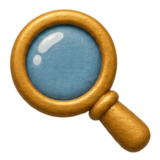
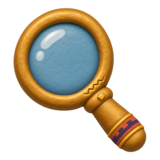
Lupa andina, ranuras horizontales y acciones opacas (v0.41) (#35)

Changed region(s): [[0.0625, 0.0312, 0.9688, 0.9375], [0.7812, 0.9375, 0.875, 0.9688]]

diff --git a/styles.css b/styles.css
@@ -1738,8 +1738,6 @@ body.playing .seat .seat-turn { display: none; }
   background: #172f36df; border: 1px solid #d5a262; border-radius: .5rem;
 }
 .action-token svg { width: 15px; height: 15px; }
-.action-token[data-state="waiting"] { opacity: .72; border-style: dashed; }
-.action-token[data-state="spent"] { opacity: .42; filter: grayscale(1); }
 body.playing .battle-dock .end-turn { width: 44px; min-width: 44px; padding: 0; display: grid; place-items: center; }
 body.playing .battle-dock .end-turn svg { width: 22px; height: 22px; }
 .card-menu { width: min(17rem,calc(100vw - 16px)); max-height: calc(100dvh - 16px); overflow-y: auto; }
@@ -2067,8 +2065,6 @@ body.playing .hud-toolbar .action-token {
 }
 .hud-toolbar .action-token svg { width: 19px; height: 19px; }
 .hud-toolbar .action-label { position: absolute; width: 1px; height: 1px; overflow: hidden; clip-path: inset(50%); }
-body.playing .hud-toolbar .action-token[data-state="waiting"] { border-style: dashed; opacity: .62; }
-body.playing .hud-toolbar .action-token[data-state="spent"] { opacity: .35; filter: grayscale(1); }
 body.playing .battle-dock { grid-template-columns: auto minmax(0,1fr) auto; }
 body.playing .battle-dock .hud-card { flex: 0 1 58px; }
 body.playing .controls > .saved-rescue-button:not([hidden]) { justify-self: start; margin: 0; }
@@ -2177,17 +2173,38 @@ body.playing .hud-toolbar .action-token {
   height: var(--hud-tile);
   border: 0;
   border-radius: .38rem;
-  background: var(--hud-blue) center / 100% 100% no-repeat;
+  background: var(--action-tile, var(--hud-blue)) center / 100% 100% no-repeat;
   box-shadow: none;
 }
 body.playing .hud-toolbar #move-status {
-  background: var(--hud-green) center / 100% 100% no-repeat;
+  --action-tile: var(--hud-green);
 }
 body.playing .hud-toolbar #attack-status {
-  background: var(--hud-red) center / 100% 100% no-repeat;
+  --action-tile: var(--hud-red);
 }
-body.playing .hud-toolbar .action-token[data-state="waiting"] { opacity: .73; }
-body.playing .hud-toolbar .action-token[data-state="spent"] { opacity: .43; }
+body.playing .hud-toolbar .action-token:not([data-state="ready"]) {
+  position: relative;
+  border: 2px solid #95999f;
+  border-radius: .57rem;
+  background: linear-gradient(150deg, #525961, #30363d);
+  box-shadow: inset 0 1px 2px #21262c;
+}
+body.playing .hud-toolbar .action-token[data-state="spent"] {
+  background: linear-gradient(150deg, #41464d, #262b32);
+}
+.hud-toolbar .action-token:not([data-state="ready"]) .hud-icon {
+  filter: grayscale(1) brightness(.84);
+}
+.hud-toolbar .action-token:not([data-state="ready"])::after {
+  content: '';
+  position: absolute;
+  inset: 12%;
+  border: 2px solid #ff5456;
+  border-radius: 50%;
+  background: linear-gradient(47deg, transparent calc(50% - 1.3px), #ff5456 50%, transparent calc(50% + 1.3px));
+  box-shadow: 0 0 0 1px #51282c;
+  pointer-events: none;
+}
 #coin-button {
   display: flex;
   align-items: center;
@@ -2235,9 +2252,20 @@ body.playing .battle-dock .end-turn {
   background: var(--hud-blue) center / 100% 100% no-repeat;
   box-shadow: none;
 }
-body.playing .battle-dock .hud-card { min-width: 0; flex: 1 1 0; }
+body.playing .battle-dock .hud-card {
+  min-width: 0;
+  flex: 1 1 0;
+  border: 1px solid transparent;
+  border-image: url('assets/ui/hud/ranura-carta.png') 26 fill / 12px / 0 stretch;
+  background: none;
+}
 body.playing .battle-dock .end-turn { min-width: 0; width: clamp(42px, 12vw, 67px); }
-body.playing .battle-dock .hud-card img { width: 74%; height: clamp(24px, 8vw, 43px); }
+body.playing .battle-dock .hud-card img {
+  width: min(80%, clamp(24px, 8vw, 43px));
+  height: auto;
+  aspect-ratio: 1;
+  object-fit: contain;
+}
 body.playing .battle-dock .actions button:not(.end-turn), .battle-dock .hand-handoff {
   min-height: 38px;
   color: #fff1d7;

diff --git a/app.js b/app.js
@@ -2,7 +2,7 @@
 
 const rules = window.RealesIdeales;
 const hudArt = name => 'assets/ui/hud/' + name + '.png';
-const searchArt = hudArt('lupa');
+const searchArt = hudArt('lupa') + '?v=041';
 const ai = window.RealesIdealesAI;
 const byId = id => document.getElementById(id);
 const board = byId('board');
@@ -2121,10 +2121,11 @@ function renderActionStatus() {
   const state = rules.turnActions(game);
   for (const [action, label] of [['move', 'Mover'], ['attack', 'Atacar']]) {
     const node = byId(action + '-status');
-    node.dataset.state = game.phase === 'turn' ? state[action] : 'waiting';
-    const description = { ready: 'disponible', waiting: 'sin destino válido por ahora', spent: 'usado' }[state[action]];
-    node.setAttribute('aria-label', label + ': ' + description);
-    node.title = label + ': ' + description;
+    const status = game.phase === 'turn' ? state[action] : 'waiting';
+    const descriptions = { ready: 'disponible', waiting: 'no disponible', spent: 'ya usado en este turno' };
+    node.dataset.state = status;
+    node.title = label + ': ' + descriptions[status];
+    node.setAttribute('aria-label', node.title);
   }
 }
 function shouldAutoEndTurn() {
@@ -2278,7 +2279,8 @@ byId('export').addEventListener('click', () => {
 const STARTUP_MIN_MS = 5000;
 const STARTUP_MAX_MS = 8000;
 const startupImages = [
-  ...['opciones', 'moneda', 'mover', 'atacar', 'fuego', 'fin-turno', 'lupa', 'marco', 'casilla-azul', 'casilla-verde', 'casilla-roja'].map(hudArt),
+  ...['opciones', 'moneda', 'mover', 'atacar', 'fuego', 'fin-turno', 'marco', 'casilla-azul', 'casilla-verde', 'casilla-roja', 'ranura-carta'].map(hudArt),
+  searchArt,
   'assets/logo.webp', 'assets/clay/portada-vertical.webp',
   'assets/clay/terracota.webp', 'assets/clay/campo-jardin.webp',
   'assets/clay/flor.webp', 'assets/clay/relieve.webp', 'assets/clay/jardin-izquierdo.webp',

diff --git a/index.html b/index.html
@@ -4,15 +4,15 @@
   <meta charset="utf-8">
   <meta name="viewport" content="width=device-width, initial-scale=1, viewport-fit=cover">
   <meta name="description" content="Reales Ideales, juego táctico para dos personas o contra la IA.">
-  <title>Reales Ideales · v0.40</title>
-  <link rel="stylesheet" href="styles.css?v=040-hud-plastilina">
+  <title>Reales Ideales · v0.41</title>
+  <link rel="stylesheet" href="styles.css?v=041-cartas-hud">
   <script defer src="game.js?v=038-arte-combate"></script>
   <script defer src="ai.js?v=038-arte-combate"></script>
   <script defer src="assets/escenario/campo-andino-casillas.js?v=021-escenario27"></script>
   <script defer src="assets/vendor/pixi-8.19.0.min.js"></script>
   <script defer src="combat-fx.js?v=038-arte-combate"></script>
   <script defer src="fx.js?v=038-arte-combate"></script>
-  <script defer src="app.js?v=040-hud-plastilina"></script>
+  <script defer src="app.js?v=041-cartas-hud"></script>
 </head>
 <body>
   <section id="inicio" class="cover" aria-labelledby="cover-title">
@@ -107,10 +107,10 @@
           <p id="special-hint" class="special-hint" aria-live="polite" hidden></p>
         </div>
         <div id="action-status" class="action-status" role="group" aria-label="Acciones de turno" hidden>
-          <span id="move-status" class="action-token" data-state="waiting">
+          <span id="move-status" class="action-token" role="img" data-state="waiting">
             <img class="hud-icon" src="assets/ui/hud/mover.png" alt="" width="96" height="96">
           </span>
-          <span id="attack-status" class="action-token" data-state="waiting">
+          <span id="attack-status" class="action-token" role="img" data-state="waiting">
             <img class="hud-icon" src="assets/ui/hud/atacar.png" alt="" width="96" height="96">
           </span>
         </div>

diff --git a/README.md b/README.md
@@ -180,3 +180,4 @@ Enseña una batalla vecina y un disparo lejano. Pide a cada jugador que explique
 - **v0.38:** portada vertical 9:16, arte de botones y HUD, combate inmediato al elegir objetivo y remate de Golpe decisivo en partida.
 - **v0.39:** video en bucle para el menú vertical, con portada fija como alternativa.
 - **v0.40:** HUD inferior con marco textil de plastilina, controles e indicadores PNG y una lupa para Exploración en la reserva, la vista previa y el combate.
+- **v0.41:** ranuras horizontales con emblemas sin deformación, lupa con ornamentos andinos e indicadores opacos con símbolo de prohibido para las acciones no disponibles.
